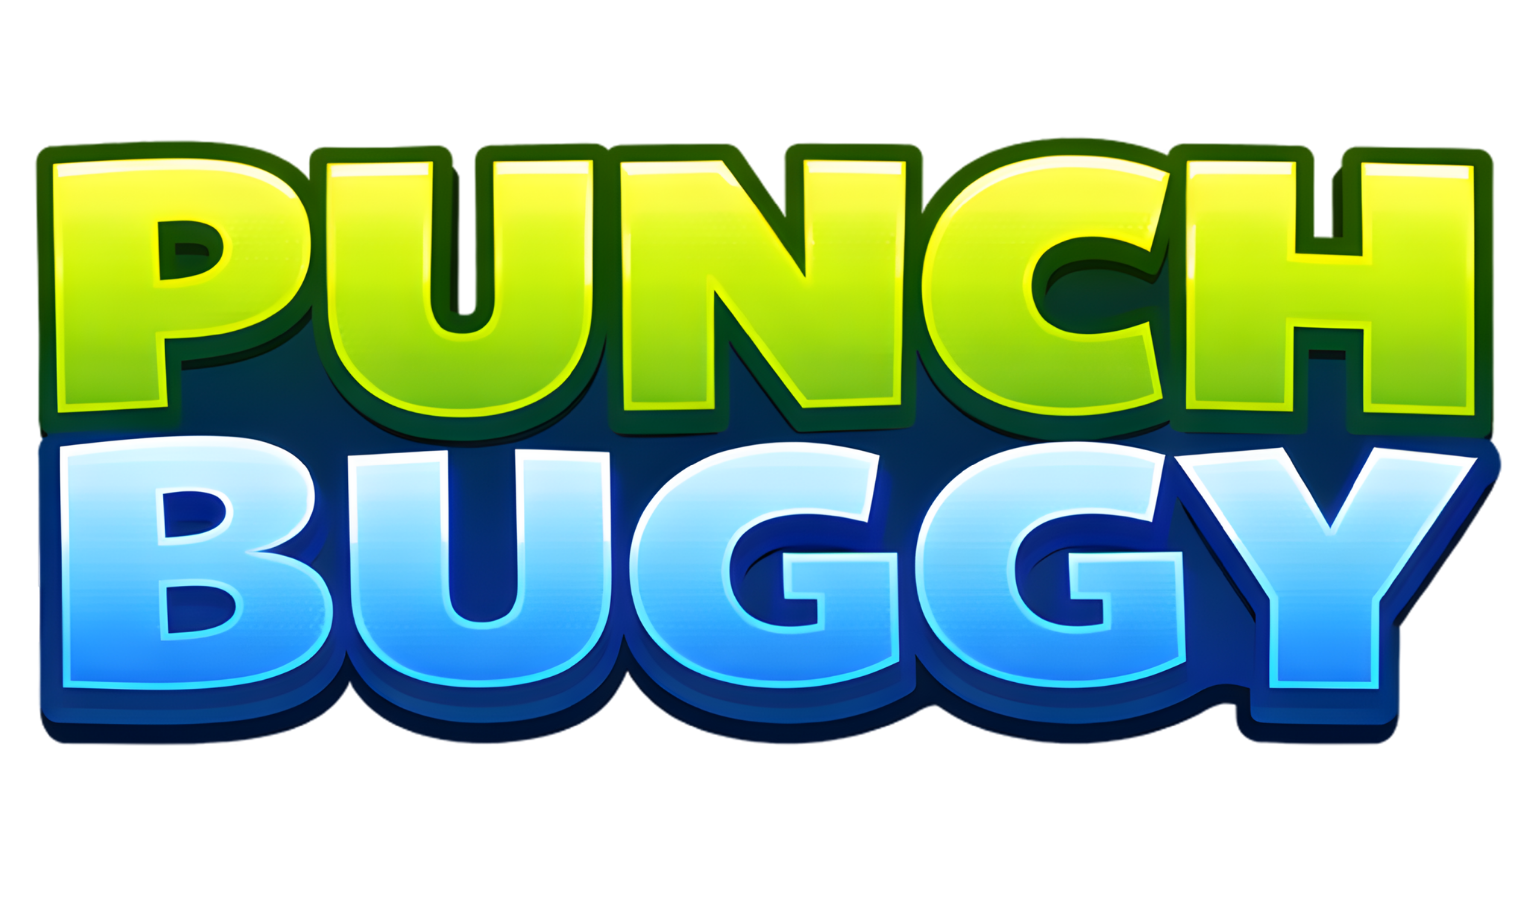
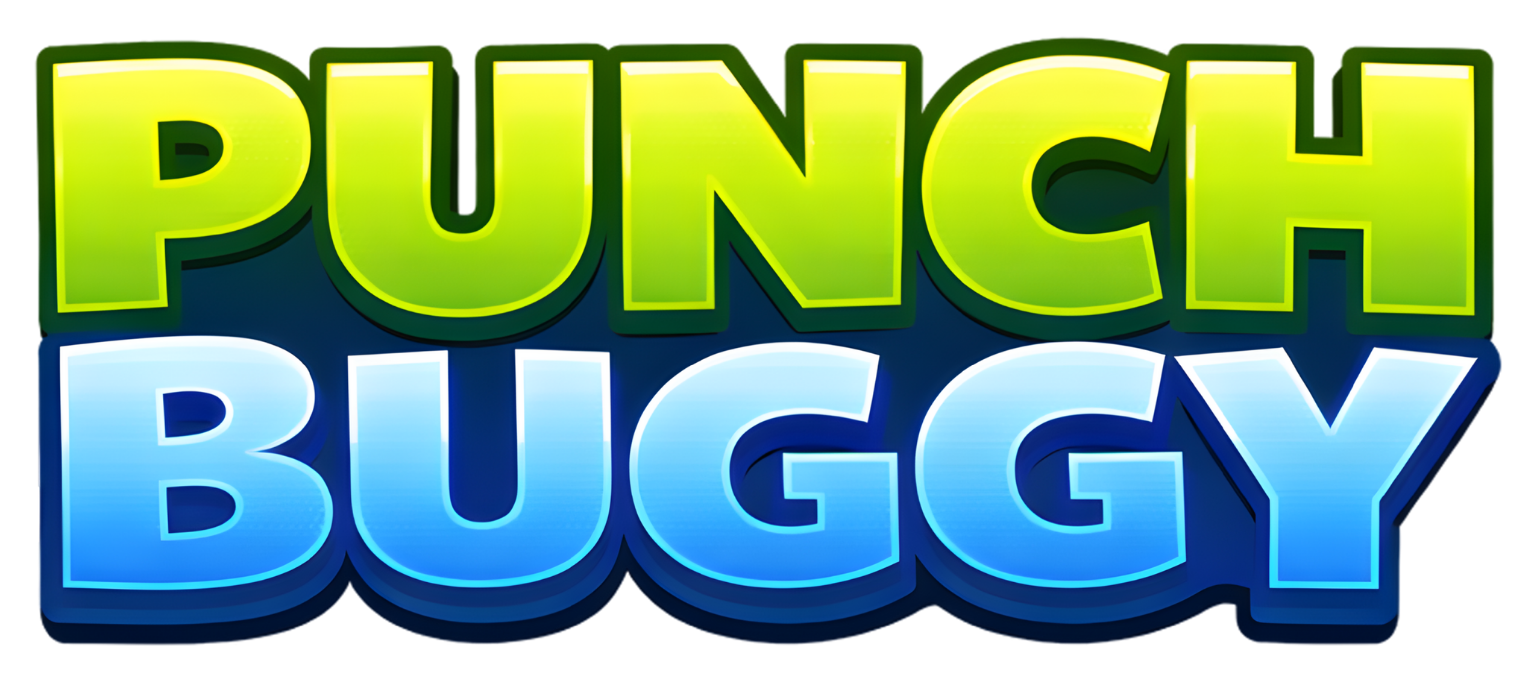
style: keep title ratio

diff --git a/docs/index.html b/docs/index.html
@@ -134,10 +134,11 @@
         min-height: 48px;
       }
       .app-title-img {
-        width: min(220px, 80vw);
+        max-width: min(240px, 85vw);
+        width: auto;
+        max-height: 60px;
         height: auto;
         display: block;
-        max-height: 48px;
       }
       .sr-only {
         position: absolute;

diff --git a/index.html b/index.html
@@ -134,10 +134,11 @@
         min-height: 48px;
       }
       .app-title-img {
-        width: min(220px, 80vw);
+        max-width: min(240px, 85vw);
+        width: auto;
+        max-height: 60px;
         height: auto;
         display: block;
-        max-height: 48px;
       }
       .sr-only {
         position: absolute;
